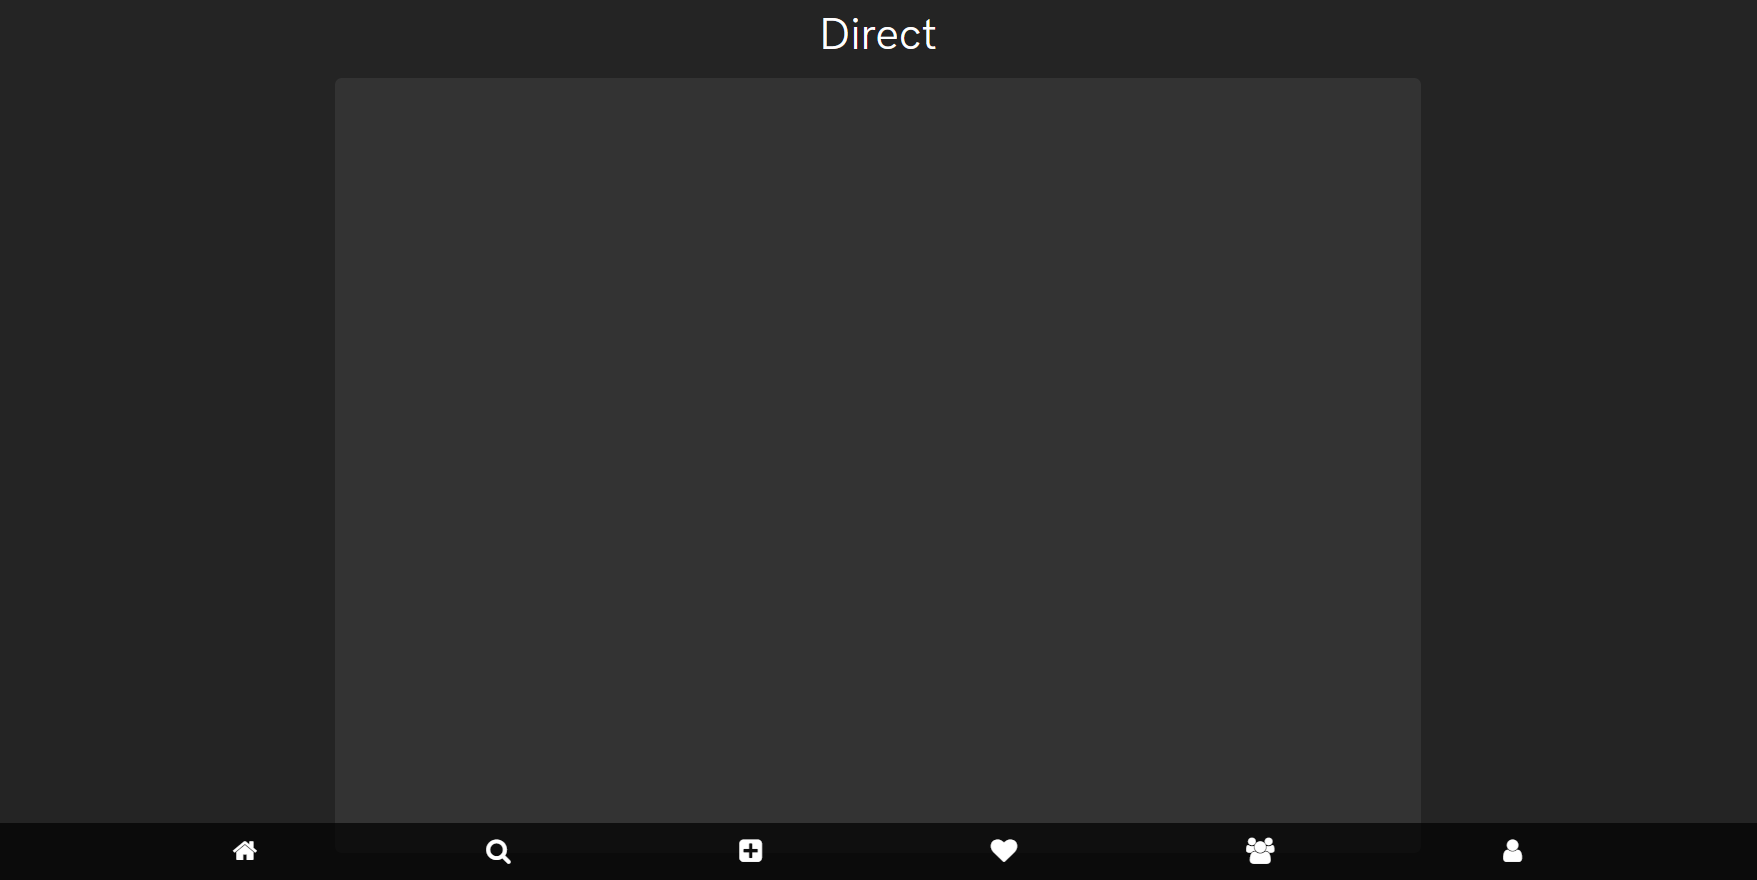
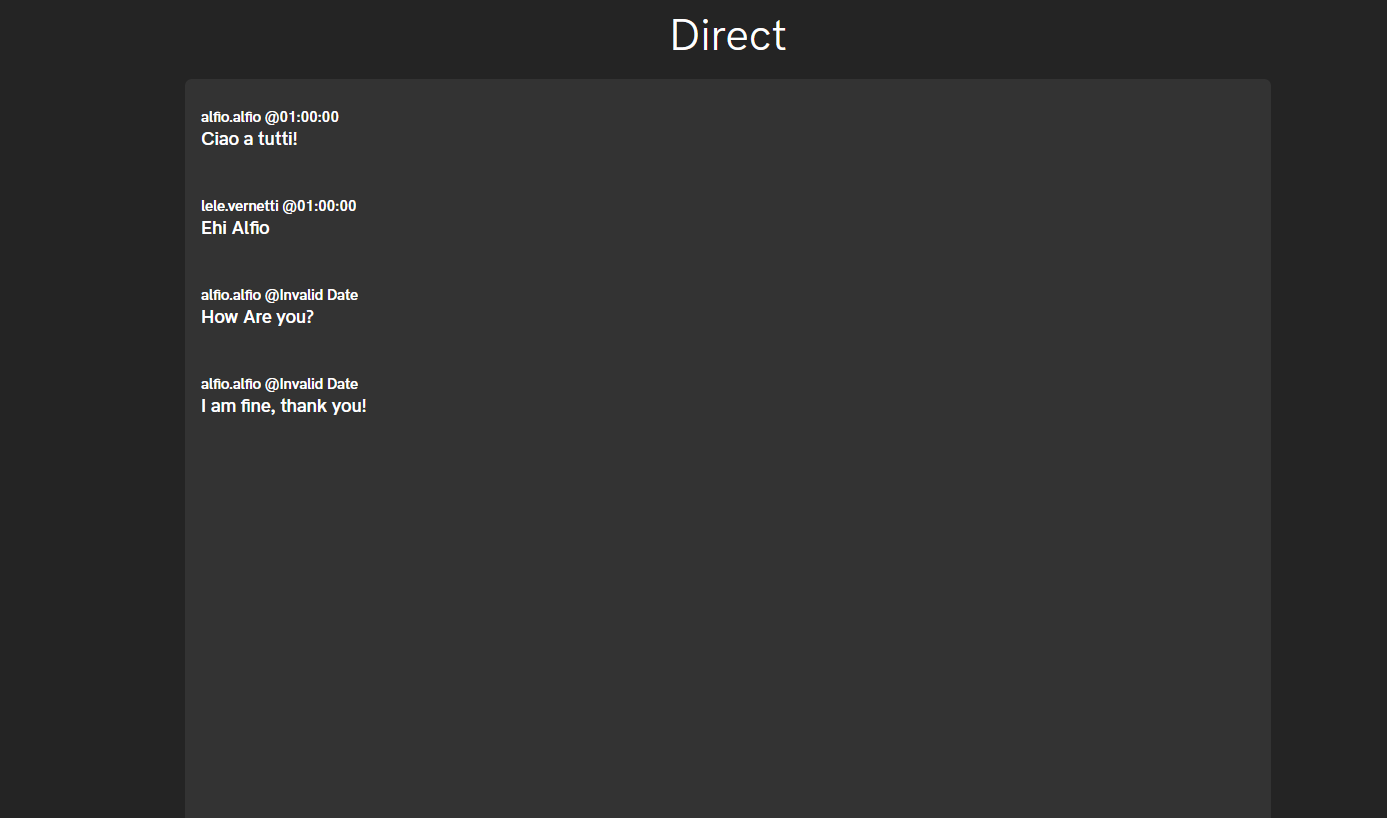
Update db & chat page

diff --git a/server.js b/server.js
@@ -26,7 +26,9 @@ const credentials = { "key": privateKey, "cert": certificate };
 
 let paginaErrore,
     username = "",
-    users = [];
+    users = [],
+    oldMessages = [],
+    newMessages = [];
 
 const server = https.createServer(credentials, app);
 const io = require('socket.io')(server);	
@@ -40,7 +42,33 @@ server.listen(PORT, function () {
 		user.socket=socket;		
 		user.socketId=socket.id;		
 		users.push(user);		
-		log(' User ' + colors.yellow(socket.id) + ' connected!');
+        log(' User ' + colors.yellow(socket.id) + ' connected!');
+        mongoClient.connect(CONNECTIONSTRING, CONNECTIONOPTIONS, function (err, client) {
+            if (!err) {
+                let db = client.db(DBNAME),
+                    collection = db.collection("Messaggi");
+                collection.find().toArray(function (err, data)
+                {
+                    if (err)
+                    {
+                        console.log("Errore esecuzione query: " + err.message);
+                    }
+                    else
+                    {
+                        oldMessages = data;
+                        for(let item of oldMessages){
+                            let m =  JSON.stringify({
+                                'from': item["from"],	 
+                                'message': item["message"],			 
+                                'date': item["data"]	 
+                            });
+                            io.sockets.emit('notify_message', m);
+                        }                       
+                    }
+                    client.close();
+                });
+            }
+        })
 
 				
 		// 1) ricezione username
@@ -65,12 +93,14 @@ server.listen(PORT, function () {
 			for(let user of users){
 				if(this.id == user.socketId){
 					log('User ' + colors.yellow(user.username) + "-" + colors.white(user.socket.id) + ' sent ' + colors.green(data));			 
-					// notifico a tutti i socket (compreso il mittente) il messaggio appena ricevuto 
-					io.sockets.emit('notify_message', JSON.stringify({
+                    // notifico a tutti i socket (compreso il mittente) il messaggio appena ricevuto
+                    let m =  JSON.stringify({
 						'from': user.username,	 
 						'message': data,			 
 						'date': new Date()	 
-					}));	
+					});
+                    io.sockets.emit('notify_message', m);
+                    newMessages.push(JSON.parse(m));	
 				}
 			}
 			
@@ -85,10 +115,22 @@ server.listen(PORT, function () {
 		 
 		// 3) user disconnected
 		socket.on('disconnect', function () {
-			log(' User ' + user.username + ' disconnected!');
+            log(' User ' + user.username + ' disconnected!');
+            mongoClient.connect(CONNECTIONSTRING, CONNECTIONOPTIONS, function (err, client) {
+                if (!err) {
+                    let db = client.db(DBNAME),
+                        collection = db.collection("Messaggi");
+                    collection.insertMany((newMessages), function (err, data)
+                    {
+                        if (err)
+                            console.log("Errore esecuzione query: " + err.message);
+                        client.close();
+                    });
+                }
+            })
 		});
-	});
     init();
+    })
 });
 
 // stampa i log con data e ora
@@ -560,5 +602,3 @@ app.use("/", function (req, res, next) {
 app.use(function (err, req, res, next) {
     console.log(err.stack);
 });
-
-/**********************CHAT*********************************/
